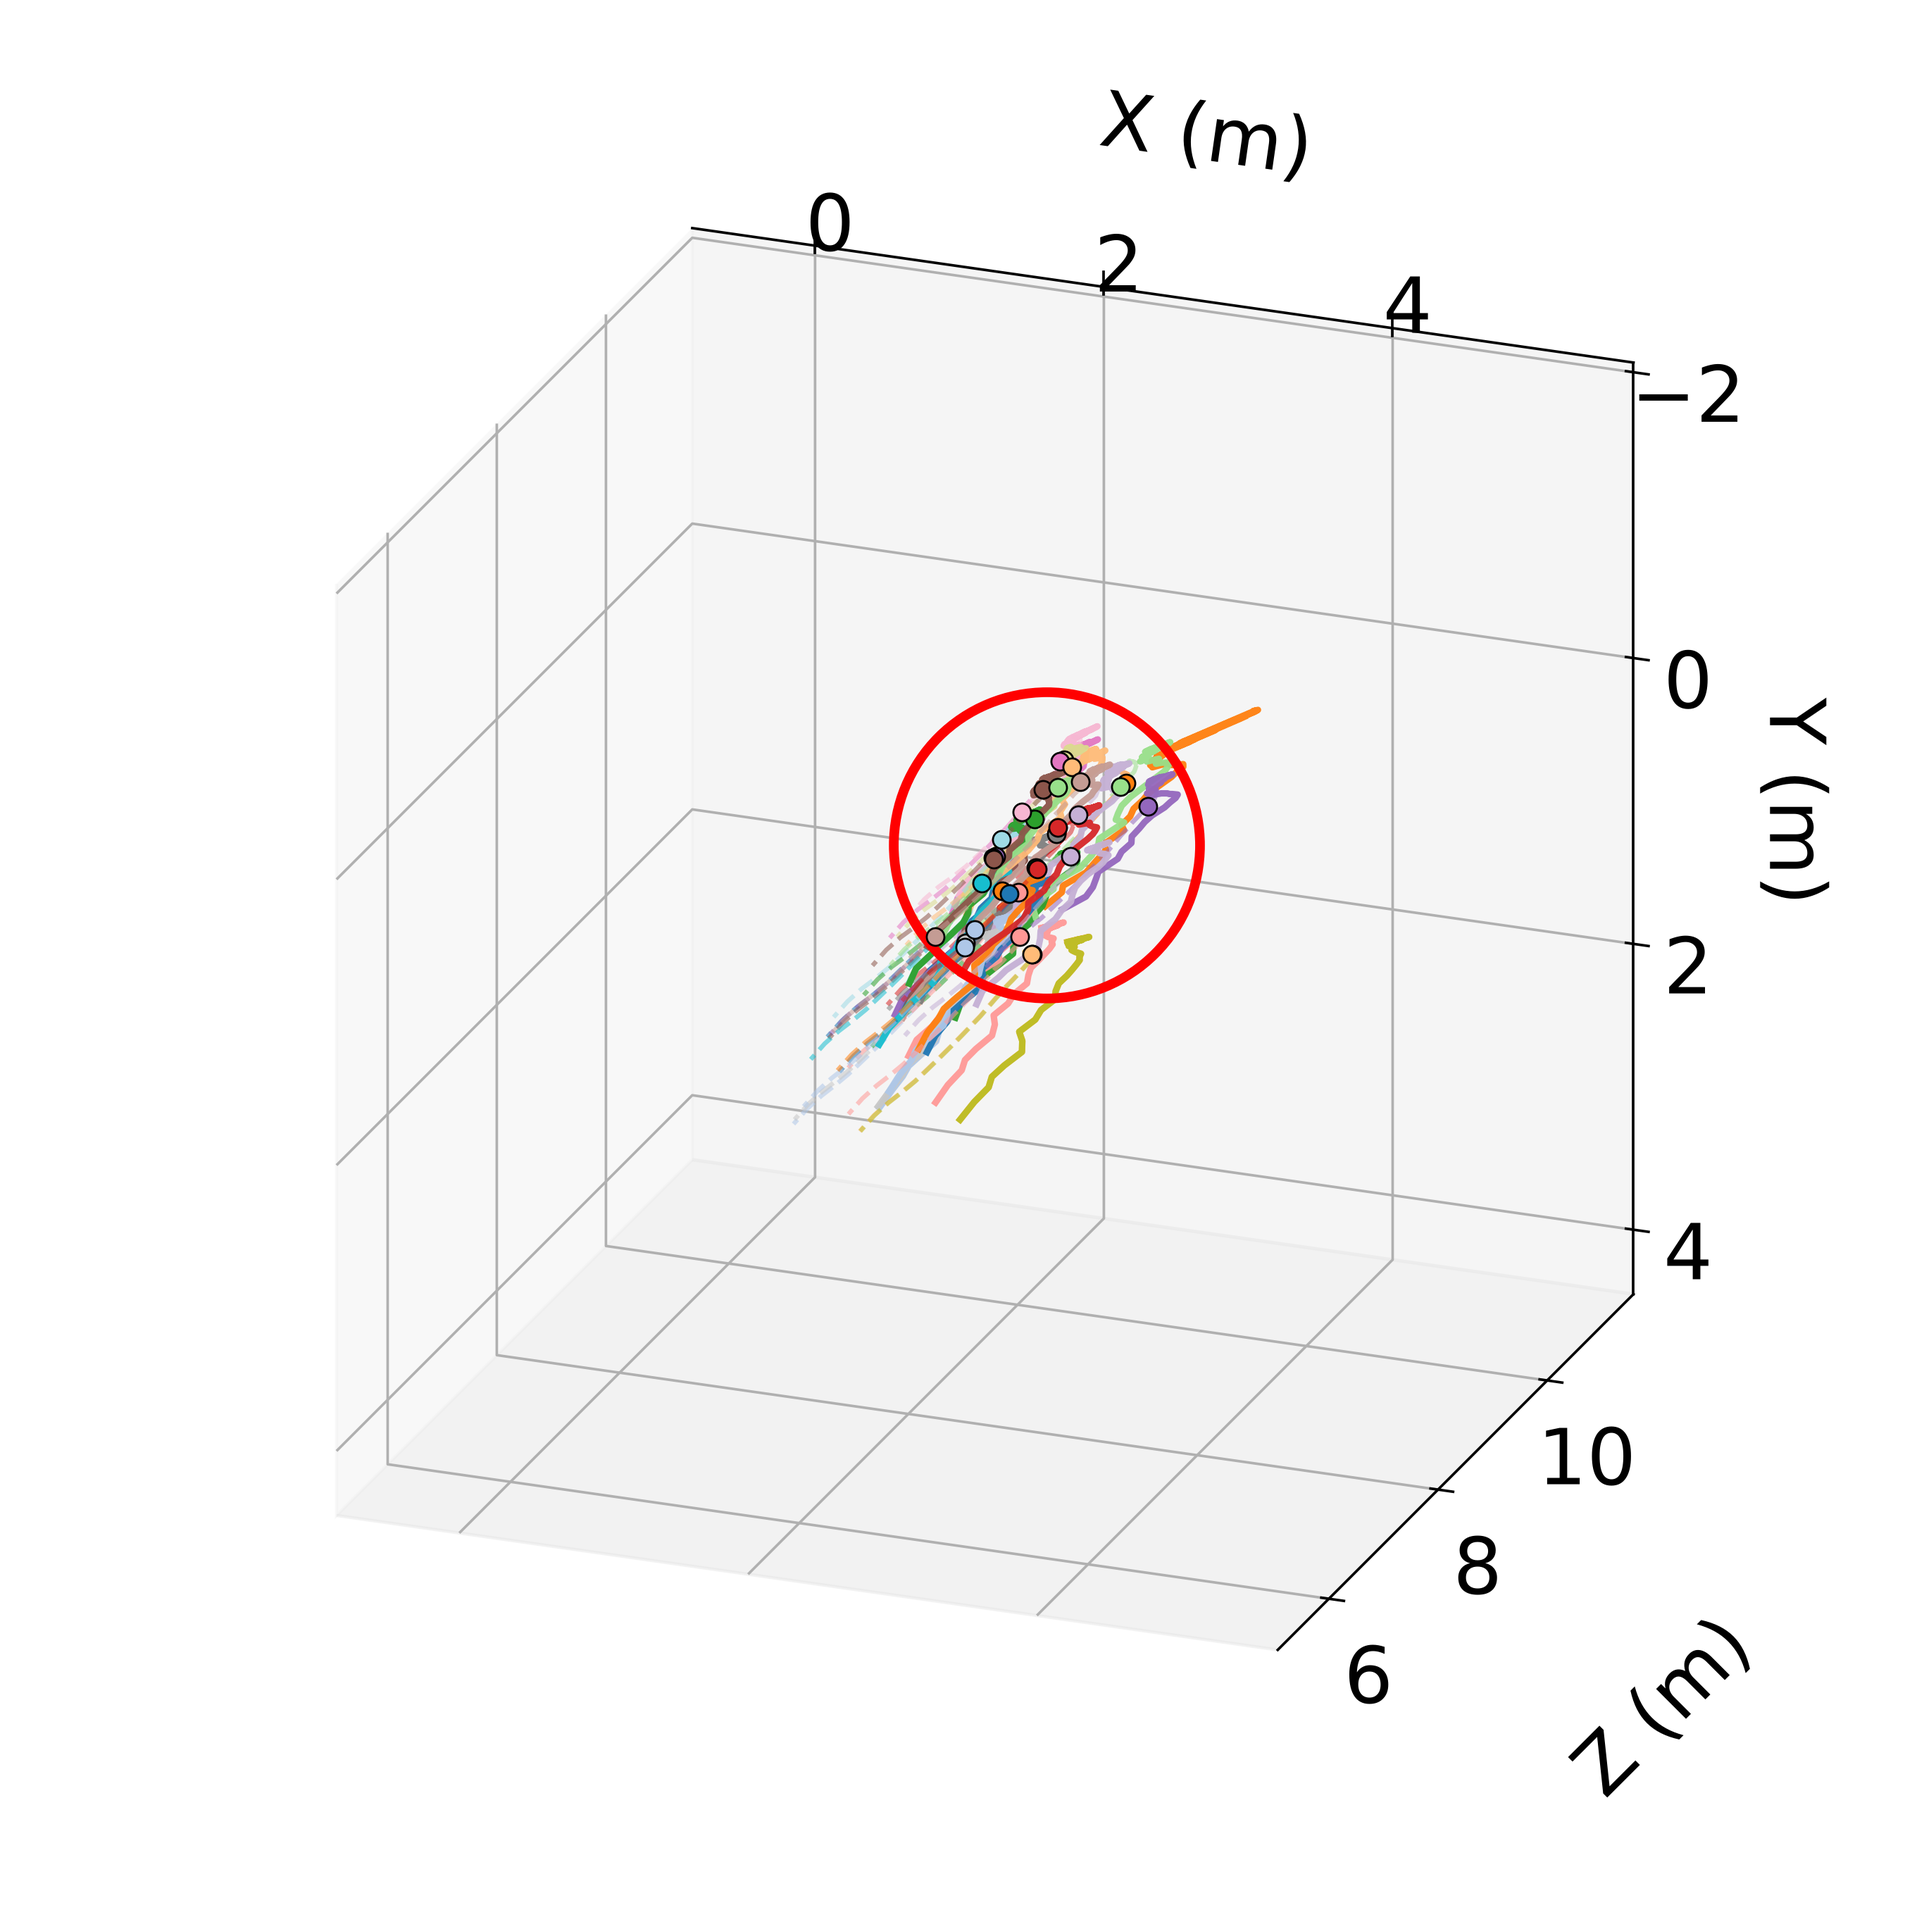
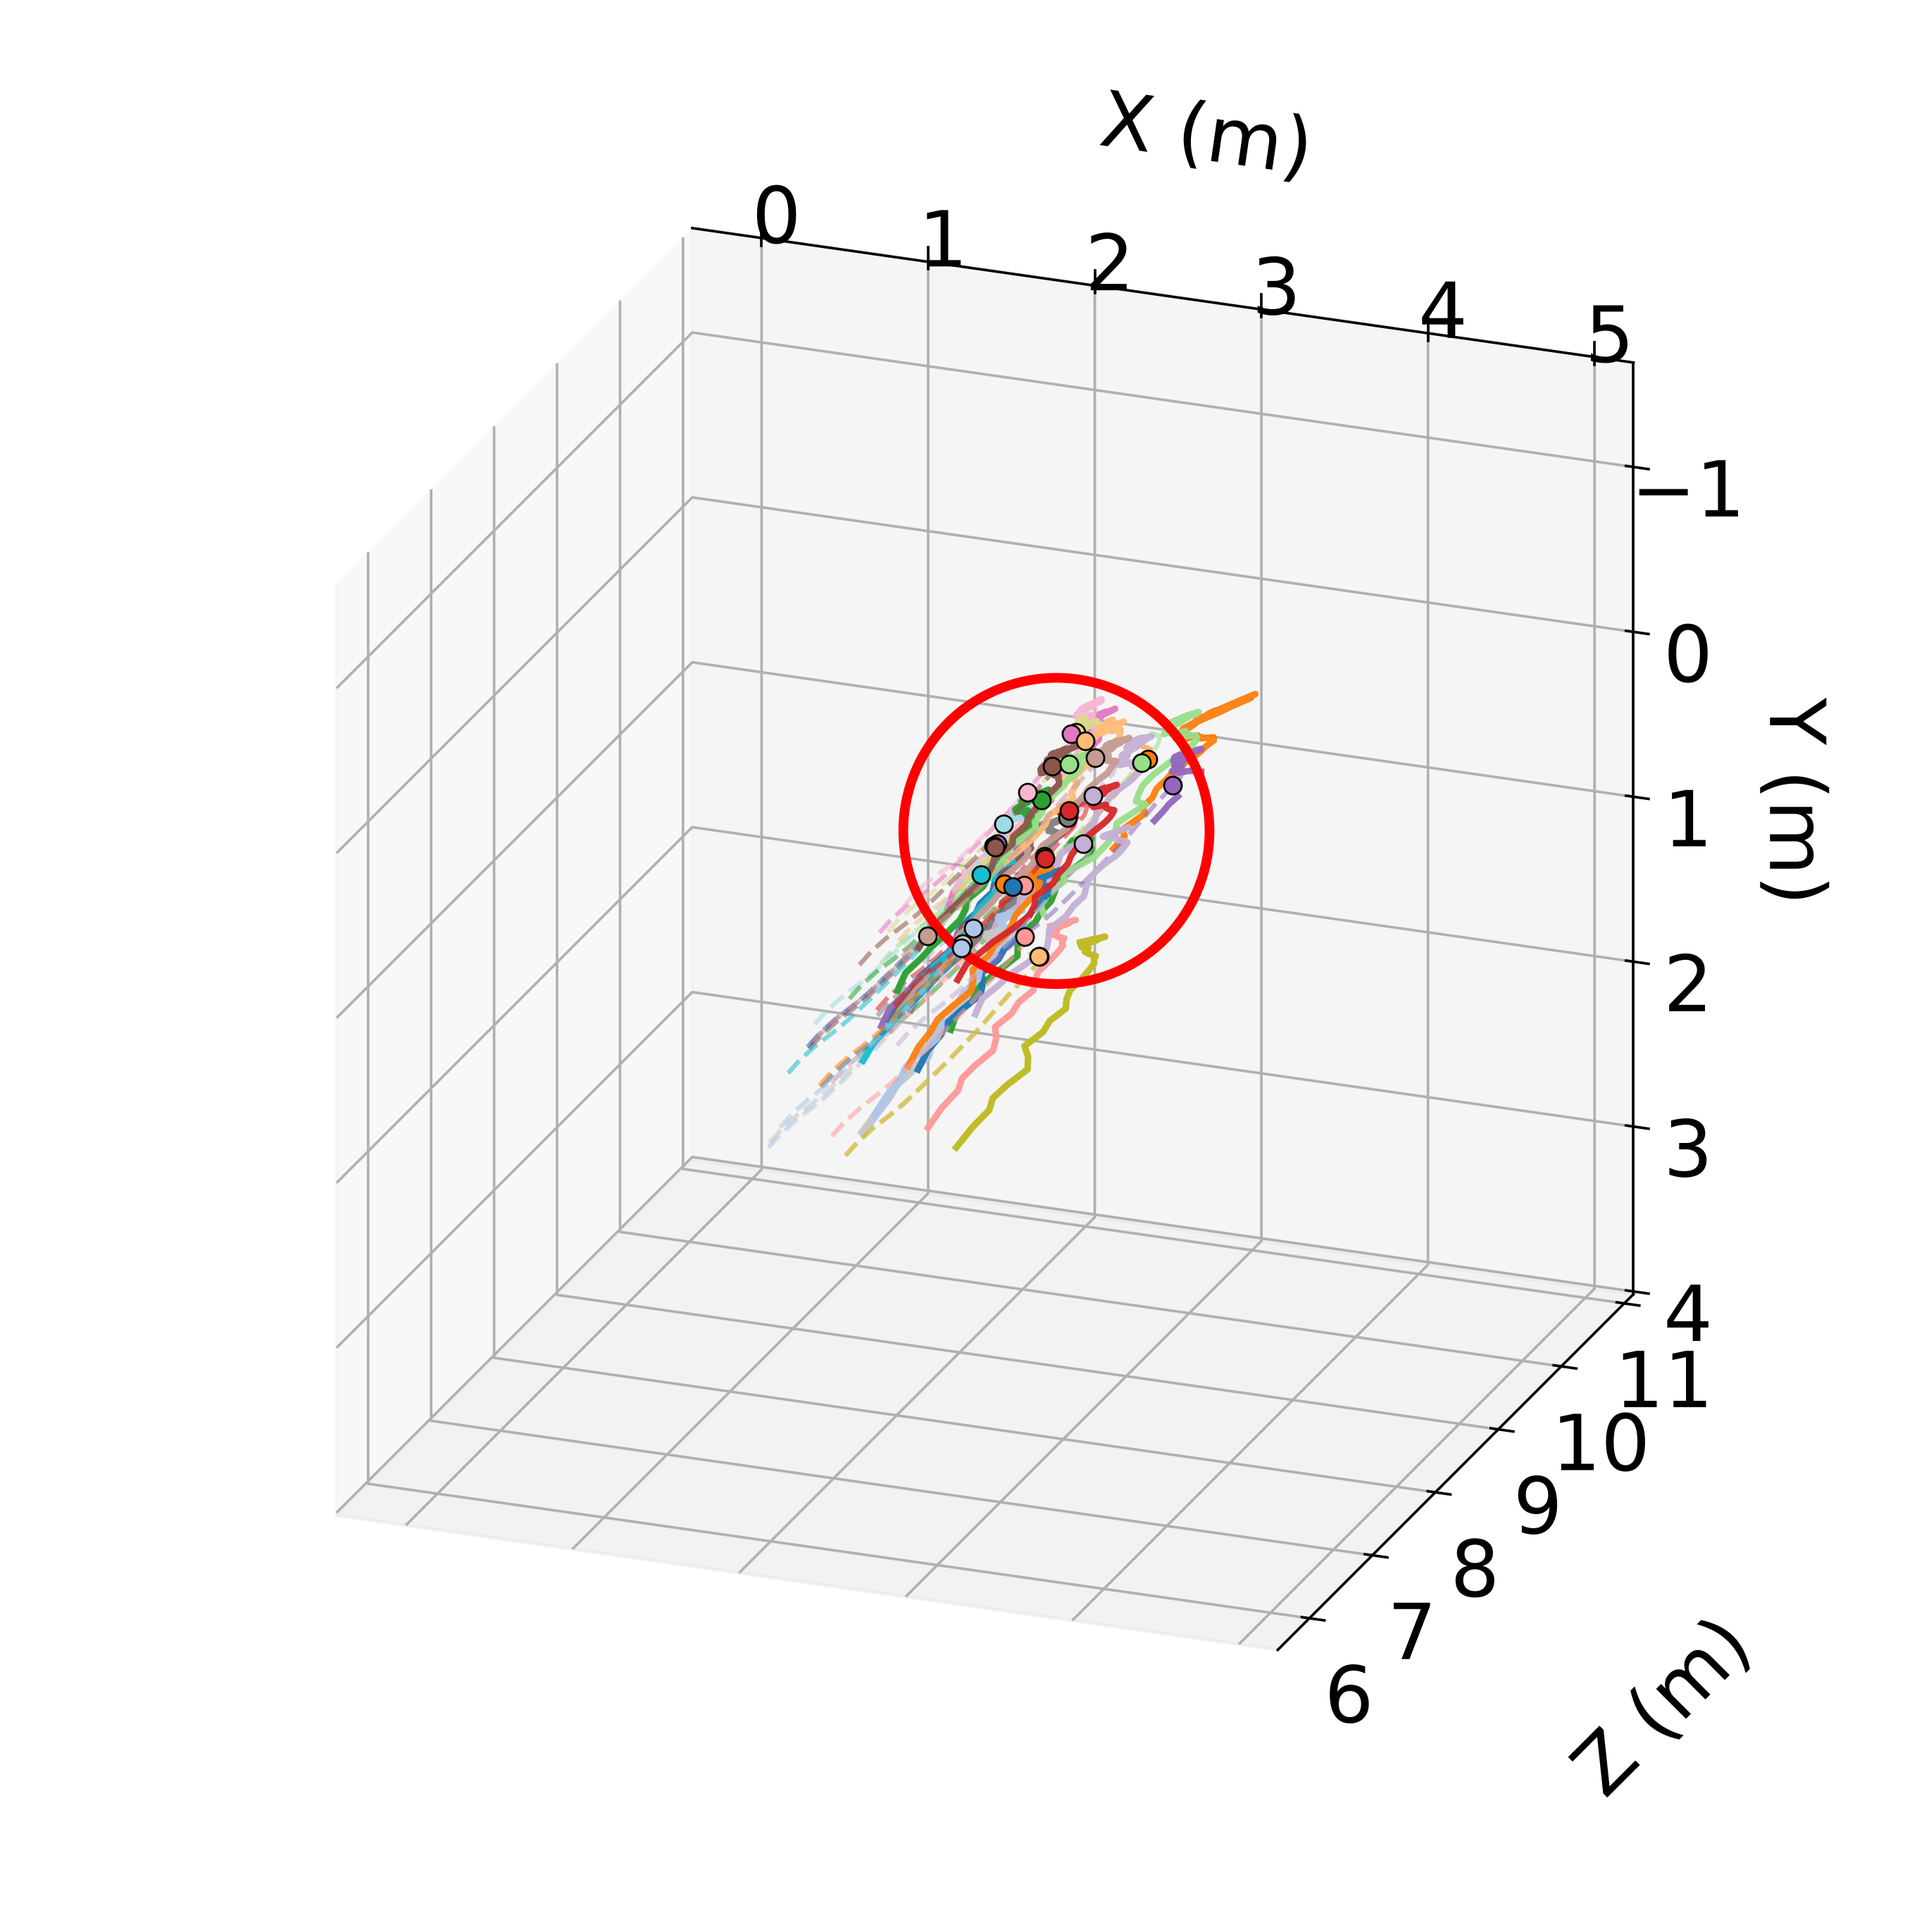
3D track figures: zoom the cube tight, and pick tick steps that don't overlap
Two figure complaints, one framing cause.

Fig. 13's tracks sat in a small central region because _gt_lims padded each axis
by 10% and the cube takes the *largest* padded span -- so that pad cost 10% of the
zoom on all three axes at once. Pad drops to 2%, just enough that a track running
along a box face is not drawn on it, and the cube is now exactly the largest data
extent: the data touches the box faces on its longest axis.

That is the entire zoom budget available under equal span, which is a hard
requirement here (it is what lets a reader compare an extent along X against one
along Z, since a gridline is the same metres and the same pixels on every axis).
The drivetrack clip spans 1.18 m in X and 1.16 m in Y against 5.43 m in Z, so its
short axes fill ~22% however tight the cube is. Checked whether another clip
displays better: every higher-ranked drivetrack clip is *more* elongated (worst-axis
fill 13%, 11%, 5%, 4% ...), because driving tracks follow vehicles receding down a
road and Y is bounded by vehicle height. Kept clip 0 and wrote the limit into the
docstring so the next person does not re-litigate it.

Fig. 1(b)'s tick labels overlapped. The step now comes from _shared_tick_step:
the largest 1/2/2.5/5-decade value that still labels the axis min_ticks times, at
min_ticks=3. At 4 the teaser's ~16 m cube picked 2.5 m and its 6 labels per axis
collided at printed width; 3 gives 5 m and three clear labels. The qualitative
[…]

diff --git a/src/mamba3_tracker/viz/track3d_axes.py b/src/mamba3_tracker/viz/track3d_axes.py
@@ -49,7 +49,9 @@ centre.
 
 from __future__ import annotations
 
-from matplotlib.ticker import MaxNLocator, MultipleLocator
+import math
+
+from matplotlib.ticker import MultipleLocator
 
 # Fixed for every 3D track figure -- do not expose as a CLI knob, or the figures
 # drift apart again (paper Fig. 1(b) and Fig. 13 previously used different views,
@@ -65,27 +67,47 @@ def apply_image_like_view(ax) -> None:
     ax.view_init(elev=CAMERA_ELEV, azim=CAMERA_AZIM, roll=CAMERA_ROLL)
 
 
-def apply_equal_cube(ax, lims, nbins: int = 4) -> float:
-    """Give x/y/z the same span and the same tick interval, and return that interval.
+def _shared_tick_step(span: float, min_ticks: int = 3) -> float:
+    """Largest 1/2/2.5/5-decade step giving at least `min_ticks` labels on `span`.
 
-    `lims` is [(lo, hi)] * 3 of the data to frame. Every axis gets the largest of
-    the three spans, centred on its own midpoint, plus a cubic box aspect, so one
-    metre is the same length on all three axes and a thin axis still draws at full
-    length instead of collapsing to a stub. The tick interval is chosen once from
-    that common span and reused on all three axes (paper/CLAUDE.md wants a single
-    interval everywhere); `nbins=4` keeps it coarse enough to stay legible on the
-    depth axis, which the shared camera foreshortens to ~0.53x.
+    3, not 4: at 4 the teaser's ~16 m cube picks a 2.5 m step, and 6 labels per
+    axis overlap once the panel is scaled down to its printed width. 5 m fits with
+    room to spare, and the qualitative clips are unaffected (drivetrack still
+    steps at 1 m) because their cubes are small enough that the extra tick was
+    never what set their interval.
+    """
+    target = max(span, 1e-9) / min_ticks
+    decade = 10.0 ** math.floor(math.log10(target))
+    for mult in (5.0, 2.5, 2.0):
+        if mult * decade <= target:
+            return mult * decade
+    return decade  # 1.0 * decade <= target always holds, by construction of decade
+
+
+def apply_equal_cube(ax, lims, min_ticks: int = 3) -> float:
+    """Frame the data in an equal-span cube, as tight as possible, and return the
+    tick interval.
+
+    `lims` is [(lo, hi)] * 3 of the data to frame. All three axes get the *same*
+    span -- the largest of the three, centred on each axis's own midpoint -- with a
+    cubic box aspect. Equal span is a hard requirement: it is what lets a reader
+    compare an extent along X directly against one along Z, since a gridline step
+    is the same number of metres and the same number of pixels on every axis.
+
+    The cube is exactly the largest data span, with no additional padding, so the
+    data touches the box faces on its longest axis. That is the whole zoom budget
+    available: the cube must contain the longest axis, so a clip whose extents are
+    anisotropic will always show its short axes only partly filled (drivetrack
+    spans 1.2 m in X and Y against 5.4 m in Z, so X and Y fill ~22% however tight
+    the cube is). Filling every axis would mean giving each its own span, which
+    breaks equal span, or cropping real data.
     """
     mids = [0.5 * (lo + hi) for lo, hi in lims]
     half = max(hi - lo for lo, hi in lims) / 2.0
-    ax.set_xlim(mids[0] - half, mids[0] + half)
-    ax.set_ylim(mids[1] - half, mids[1] + half)
-    ax.set_zlim(mids[2] - half, mids[2] + half)
+    for setter, mid in zip((ax.set_xlim, ax.set_ylim, ax.set_zlim), mids):
+        setter(mid - half, mid + half)
     ax.set_box_aspect((1, 1, 1))
-    ticks = MaxNLocator(nbins=nbins, steps=[1, 2, 2.5, 5, 10]).tick_values(
-        mids[0] - half, mids[0] + half
-    )
-    step = float(ticks[1] - ticks[0])
+    step = _shared_tick_step(2.0 * half, min_ticks)
     for axis in (ax.xaxis, ax.yaxis, ax.zaxis):
         axis.set_major_locator(MultipleLocator(step))
     return step

diff --git a/scripts/render_qual_3d.py b/scripts/render_qual_3d.py
@@ -75,9 +75,14 @@ def _pick_tracks(vis_NF: np.ndarray, k: int) -> list[int]:
     return list(order[:k])
 
 
-def _gt_lims(gt, vis, pad: float = 0.1):
+def _gt_lims(gt, vis, pad: float = 0.02):
     """Shared (x,y,z) axis limits from the GT of the plotted tracks, so the SOTA and
-    ours panels show the exact same volume and the red ring lands in the same place."""
+    ours panels show the exact same volume and the red ring lands in the same place.
+
+    `pad` is deliberately tiny -- just enough that a track running along a box face
+    is not drawn exactly on it. It inflates the *longest* axis, which then sets the
+    cube for all three, so every percent of pad costs a percent of zoom on every
+    axis at once."""
     pts = [
         gt[n, vis[n].astype(bool)]
         for n in _pick_tracks(vis, MAX_TRACKS)
@@ -174,9 +179,10 @@ def _render_3d(
             zorder=20,
         )
     if lims is not None:
-        # Equal span / equal ticks on all three axes. (Point-clipping above still
-        # uses the tighter GT box `lims`, so the "DELTA leaves the true volume"
-        # view holds.)
+        # Equal metric scale with a box that hugs the data, so the tracks reach
+        # the axis edges instead of sitting in a small central region.
+        # (Point-clipping above still uses `lims`, so the "DELTA leaves the true
+        # volume" view holds.)
         apply_equal_cube(ax, lims)
     apply_image_like_view(ax)
     ax.set_xlabel("X (m)", labelpad=12)

diff --git a/scripts/make_teaser_3d.py b/scripts/make_teaser_3d.py
@@ -48,7 +48,7 @@ _spec.loader.exec_module(_ev)
 TEASER_CLIP = "tapvid3d_1022527355599519580_4866_960_4886_960_2_L58RM2TH_i-3sYbjr6JjQQ"
 IMAGE_SIZE = 896
 MAX_TRACKS = 32
-PAD = 0.1  # fraction of extent to pad the axis box by, matching render_qual_3d.py
+PAD = 0.02  # tiny: it inflates the longest axis, which sets the cube for all three
 CACHE = cache_dir() / "teaser_3d.npz"
 
 
@@ -104,10 +104,10 @@ def _plot(pred, gt, vis, anchor, out_path: Path) -> None:
     lo, hi = P.min(0), P.max(0)
     span = np.maximum(hi - lo, 1e-3)
     lo, hi = lo - PAD * span, hi + PAD * span
-    # Same cube framing as the Fig. 13 panels: every axis gets the full extent and
-    # the same tick interval, so the near-planar Y (height) axis still draws at full
-    # length -- shown at its own ~1 m extent it collapsed to an unreadable stub, and
-    # padding it by hand made it a different length from Fig. 13's.
+    # Same framing helper as the Fig. 13 panels: one equal-span cube, sized to the
+    # largest extent, so a gridline step means the same number of metres on every
+    # axis. Y here is near-planar (~1 m against ~16 m of ground) and so fills only
+    # a thin band of its axis -- the honest consequence of equal span.
     apply_equal_cube(ax, [(float(lo[i]), float(hi[i])) for i in range(3)])
     apply_image_like_view(ax)
     ax.set_xlabel("X (m)", labelpad=10)
